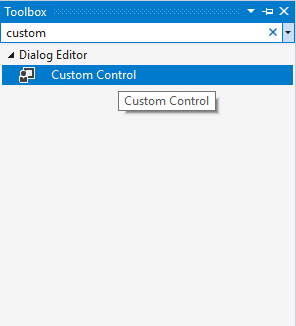
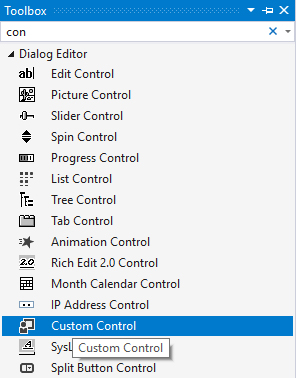
[Changes] Restructuring.

Changed region(s): [[0.0, 0.0, 1.0, 1.0], [0.152, 0.5215, 0.5473, 0.7055], [0.152, 0.4601, 0.3953, 0.4908]]

diff --git a/HexCtrlSample/HexSample.cpp b/HexCtrlSample/HexSample.cpp
@@ -1,7 +1,3 @@
-
-// HexSample.cpp : Defines the class behaviors for the application.
-//
-
 #include "stdafx.h"
 #include "HexSample.h"
 #include "HexSampleDlg.h"
@@ -10,29 +6,15 @@
 #define new DEBUG_NEW
 #endif
 
-
-// CHexSampleApp
-
 BEGIN_MESSAGE_MAP(CHexSampleApp, CWinApp)
 	ON_COMMAND(ID_HELP, &CWinApp::OnHelp)
 END_MESSAGE_MAP()
 
-
-// CHexSampleApp construction
-
 CHexSampleApp::CHexSampleApp()
 {
-	// TODO: add construction code here,
-	// Place all significant initialization in InitInstance
 }
 
-
-// The one and only CHexSampleApp object
-
 CHexSampleApp theApp;
-
-
-// CHexSampleApp initialization
 
 BOOL CHexSampleApp::InitInstance()
 {
@@ -48,7 +30,6 @@ BOOL CHexSampleApp::InitInstance()
 
 	CWinApp::InitInstance();
 
-
 	// Create the shell manager, in case the dialog contains
 	// any shell tree view or shell list view controls.
 	CShellManager *pShellManager = new CShellManager;
@@ -63,7 +44,7 @@ BOOL CHexSampleApp::InitInstance()
 	// Change the registry key under which our settings are stored
 	// TODO: You should modify this string to be something appropriate
 	// such as the name of your company or organization
-	SetRegistryKey(_T("Local AppWizard-Generated Applications"));
+	SetRegistryKey(_T("HexCtrl Sample Project"));
 
 	CHexSampleDlg dlg;
 	m_pMainWnd = &dlg;
@@ -98,4 +79,3 @@ BOOL CHexSampleApp::InitInstance()
 	//  application, rather than start the application's message pump.
 	return FALSE;
 }
-

diff --git a/HexCtrlSample/stdafx.h b/HexCtrlSample/stdafx.h
@@ -1,8 +1,3 @@
-
-// stdafx.h : include file for standard system include files,
-// or project specific include files that are used frequently,
-// but are changed infrequently
-
 #pragma once
 
 #ifndef VC_EXTRALEAN
@@ -18,10 +13,6 @@
 
 #include <afxwin.h>         // MFC core and standard components
 #include <afxext.h>         // MFC extensions
-
-
-
-
 
 #ifndef _AFX_NO_OLE_SUPPORT
 #include <afxdtctl.h>           // MFC support for Internet Explorer 4 Common Controls

diff --git a/HexCtrlSample/HexSample.h b/HexCtrlSample/HexSample.h
@@ -1,7 +1,3 @@
-
-// HexSample.h : main header file for the PROJECT_NAME application
-//
-
 #pragma once
 
 #ifndef __AFXWIN_H__
@@ -10,21 +6,13 @@
 
 #include "resource.h"		// main symbols
 
-
-// CHexSampleApp:
-// See HexSample.cpp for the implementation of this class
-//
-
 class CHexSampleApp : public CWinApp
 {
 public:
 	CHexSampleApp();
 
-// Overrides
 public:
 	virtual BOOL InitInstance();
-
-// Implementation
 
 	DECLARE_MESSAGE_MAP()
 };

diff --git a/README.md b/README.md
@@ -5,7 +5,7 @@
 * [Implementation](#implementation)
 * [Using the Code](#using-the-control)
 * [Create](#create)
-  * [Control In Dialog](#control-in-dialog)
+  * [In Dialog](#in-dialog)
 * [SetData](#setdata)
 * [Virtual Mode](#virtual-mode)
 * [OnDestroy](#ondestroy)
@@ -79,17 +79,19 @@ using PHEXCOLORSTRUCT = HEXCOLORSTRUCT * ;
 ```
 This struct is also used in `CHexCtrl::SetColor` method.
 
-### [](#)Create In Dialog
+### [](#)In Dialog
 To use `HexCtrl` within `Dialog` you can create it with the standard routine: call `Create` method and provide all the necessary information.
 But there is another approach you can use:
 1. Put **Custom Control** control from the Toolbox in Visual Studio dialog designer into your dialog template and make it desired size.<br>
-![](docs/img/VSToolboxCustomCtrl.jpg)
+![](docs/img/VSToolboxCustomCtrl.jpg) ![](docs/img/VSCustomCtrlOnDlg.jpg)
 2. Then go to the **Properties** of that control, and in the **Class** field, within the **Misc** section, write _HexCtrl_. Give the control appropriate 
 **ID** of your choise (`IDC_MY_HEX` in this example). Also, here you can set the control's **Dynamic Layout** properties, so that control behaves appropriately when dialog is being resized.
 ![](docs/img/VSCustomCtrlProperties.jpg)
 3. Declare `CHexCtrl` member varable within your dialog class: `CHexCtrl m_myhex;`
 4. Add the folowing code to the `DoDataExchange` method of your dialog class:<br>
-`DDX_Control(pDX, IDC_MY_HEX, m_myhex);`<br>
+```cpp
+DDX_Control(pDX, IDC_MY_HEX, m_myhex);
+```
 So, that it looks like in the example below:
 ```cpp
 void CMyDlg::DoDataExchange(CDataExchange* pDX)
@@ -98,11 +100,10 @@ void CMyDlg::DoDataExchange(CDataExchange* pDX)
 	DDX_Control(pDX, IDC_MY_HEX, m_myhex);
 }
 ```
-5. Last but not the least, declare `HEXCREATESTRUCT` object and set its `fCustomCtrl` member to true, and `uId` to `IDC_MY_HEX` (Id of your control). 
-Finally, call `m_myhex.Create` method.
+5. Declare `HEXCREATESTRUCT` variable, set its `fCustomCtrl` field to true, and call `m_myhex.Create` method.
 
 ### [](#)SetData
-`SetData` method takes `HEXDATASTRUCT` reference as argument. This struct's fields are described below:
+`SetData` method takes `HEXDATASTRUCT` reference as argument. This struct fields are described below:
 ```cpp
 struct HEXDATASTRUCT 
 {
